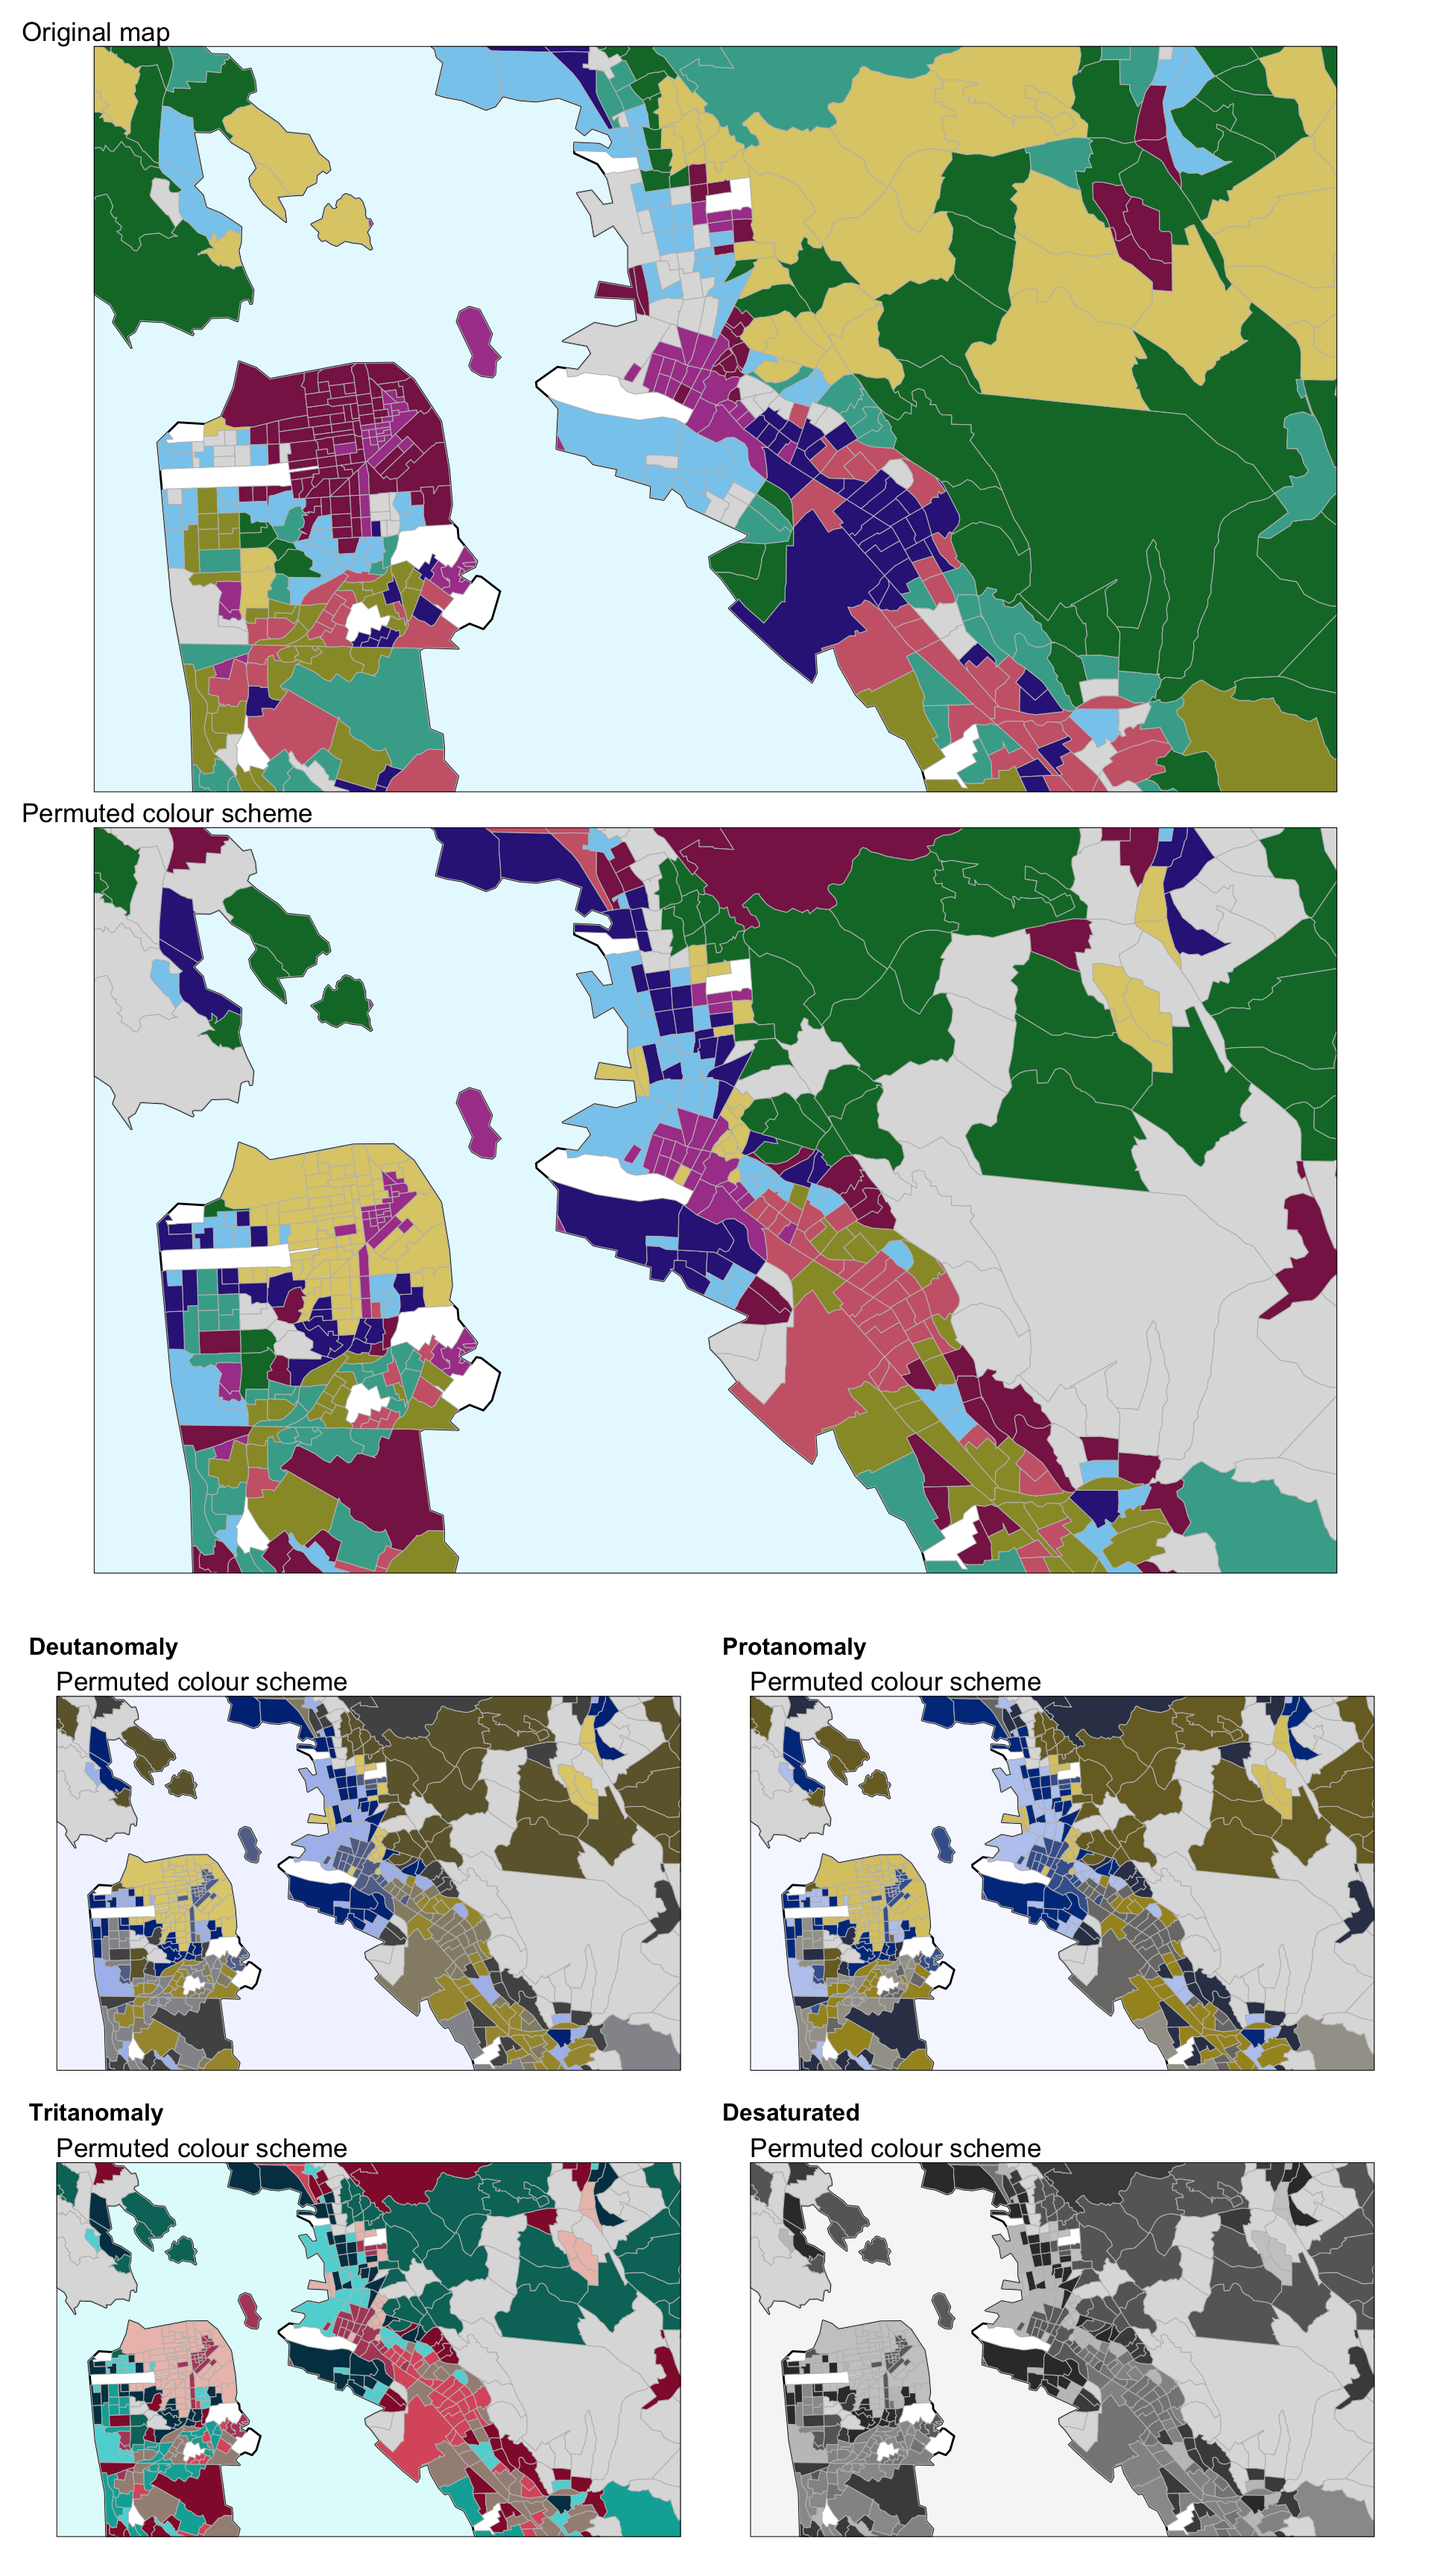
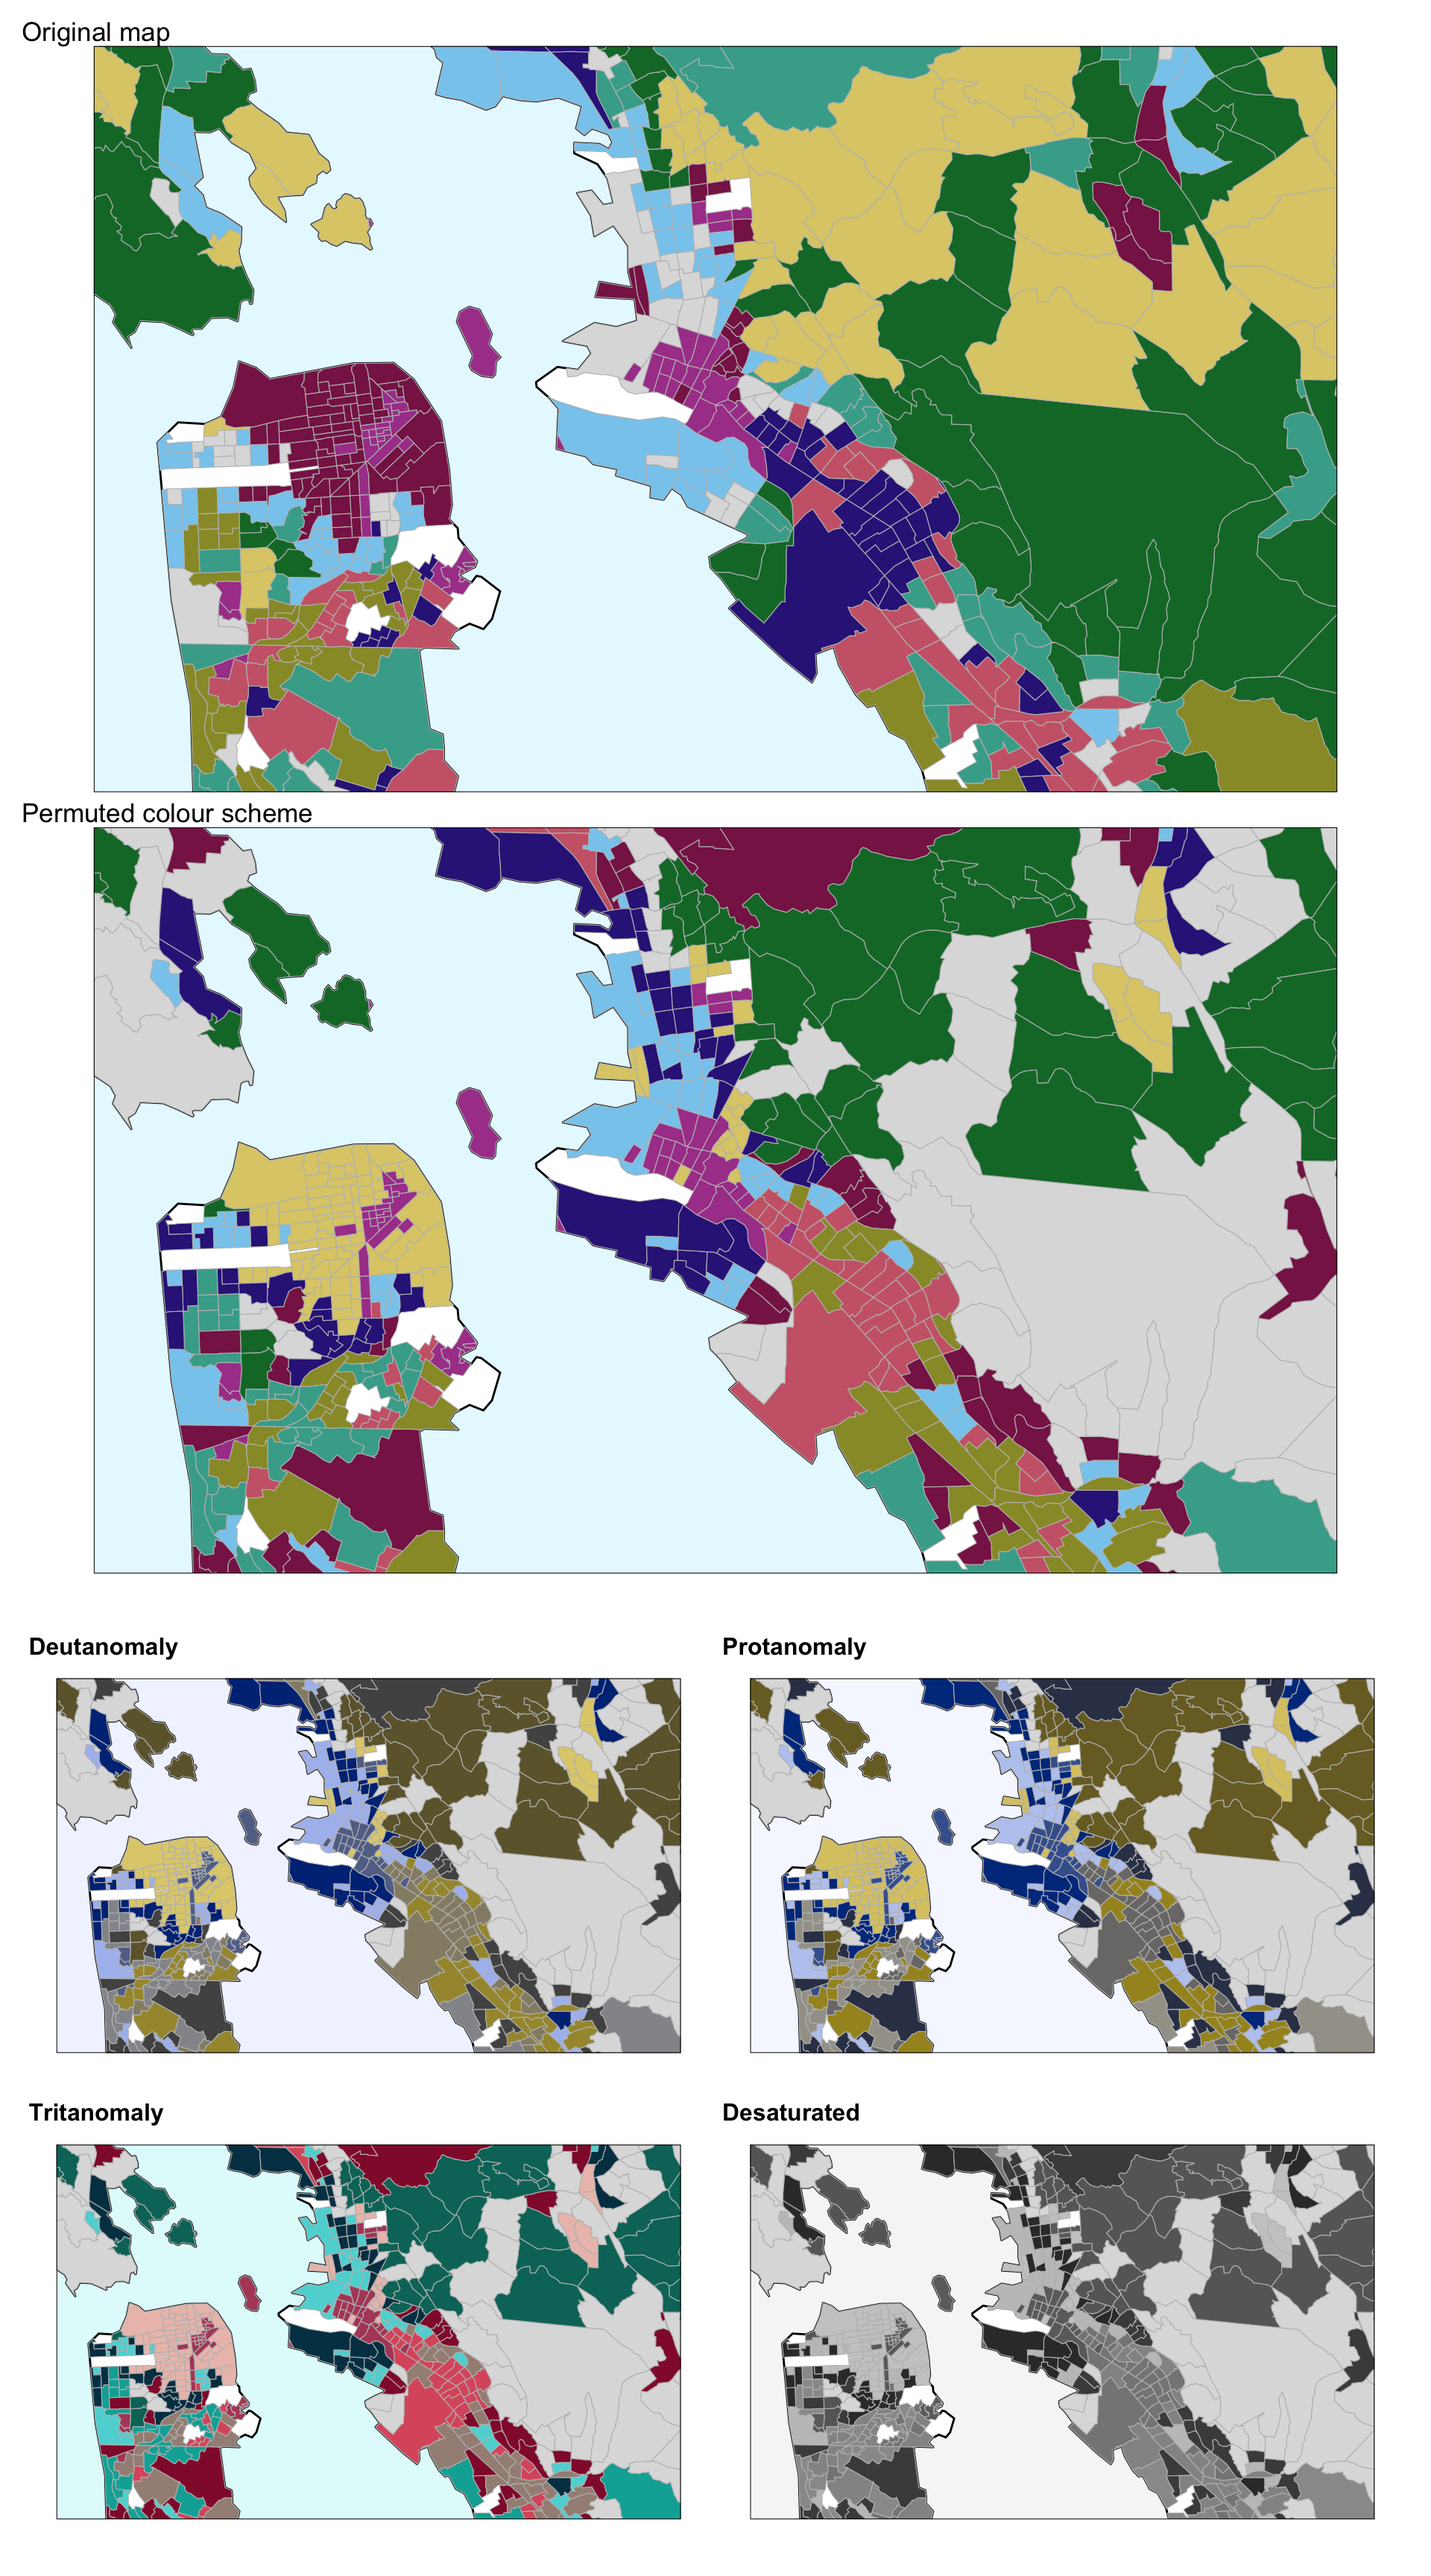
fixed titles in CVD sims of final map

Changed region(s): [[0.0312, 0.625, 0.5, 1.0], [0.5312, 0.625, 0.9688, 1.0]]

diff --git a/docs/posts/2026/02/13/index.html b/docs/posts/2026/02/13/index.html
@@ -951,13 +951,12 @@ Figure&nbsp;14: Fifteen demographic clusters mapped using the <em>matplotlib.vir
 <span id="cb27-2"><a href="#cb27-2" aria-hidden="true" tabindex="-1"></a>  <span class="fu">geom_sf</span>(<span class="at">data =</span> gdf, <span class="fu">aes</span>(<span class="at">fill =</span> k10), <span class="at">colour =</span> <span class="st">"grey"</span>) <span class="sc">+</span></span>
 <span id="cb27-3"><a href="#cb27-3" aria-hidden="true" tabindex="-1"></a>  <span class="fu">scale_fill_manual</span>(<span class="at">values =</span> pal[min_perm]) <span class="sc">+</span></span>
 <span id="cb27-4"><a href="#cb27-4" aria-hidden="true" tabindex="-1"></a>  <span class="fu">guides</span>(<span class="at">fill =</span> <span class="st">"none"</span>) <span class="sc">+</span></span>
-<span id="cb27-5"><a href="#cb27-5" aria-hidden="true" tabindex="-1"></a>  <span class="fu">ggtitle</span>(<span class="st">"Permuted colour scheme"</span>) <span class="sc">+</span></span>
-<span id="cb27-6"><a href="#cb27-6" aria-hidden="true" tabindex="-1"></a>  frame</span>
-<span id="cb27-7"><a href="#cb27-7" aria-hidden="true" tabindex="-1"></a></span>
-<span id="cb27-8"><a href="#cb27-8" aria-hidden="true" tabindex="-1"></a>(map4 <span class="sc">+</span> <span class="fu">ggtitle</span>(<span class="st">"Original map"</span>)) <span class="sc">/</span> </span>
-<span id="cb27-9"><a href="#cb27-9" aria-hidden="true" tabindex="-1"></a>  map6 <span class="sc">/</span> </span>
-<span id="cb27-10"><a href="#cb27-10" aria-hidden="true" tabindex="-1"></a>  <span class="fu">plot_spacer</span>() <span class="sc">/</span> </span>
-<span id="cb27-11"><a href="#cb27-11" aria-hidden="true" tabindex="-1"></a>  <span class="fu">cvd_grid</span>(map6) <span class="sc">+</span> <span class="fu">plot_layout</span>(<span class="at">heights =</span> <span class="fu">c</span>(<span class="dv">2</span>, <span class="dv">2</span>, <span class="fl">0.1</span>, <span class="fl">2.5</span>))</span></code></pre></div><button title="Copy to Clipboard" class="code-copy-button"><i class="bi"></i></button></div>
+<span id="cb27-5"><a href="#cb27-5" aria-hidden="true" tabindex="-1"></a>  frame</span>
+<span id="cb27-6"><a href="#cb27-6" aria-hidden="true" tabindex="-1"></a></span>
+<span id="cb27-7"><a href="#cb27-7" aria-hidden="true" tabindex="-1"></a>(map4 <span class="sc">+</span> <span class="fu">ggtitle</span>(<span class="st">"Original map"</span>)) <span class="sc">/</span> </span>
+<span id="cb27-8"><a href="#cb27-8" aria-hidden="true" tabindex="-1"></a>  (map6 <span class="sc">+</span> <span class="fu">ggtitle</span>(<span class="st">"Permuted colour scheme"</span>)) <span class="sc">/</span> </span>
+<span id="cb27-9"><a href="#cb27-9" aria-hidden="true" tabindex="-1"></a>  <span class="fu">plot_spacer</span>() <span class="sc">/</span> </span>
+<span id="cb27-10"><a href="#cb27-10" aria-hidden="true" tabindex="-1"></a>  <span class="fu">cvd_grid</span>(map6) <span class="sc">+</span> <span class="fu">plot_layout</span>(<span class="at">heights =</span> <span class="fu">c</span>(<span class="dv">2</span>, <span class="dv">2</span>, <span class="fl">0.1</span>, <span class="fl">2.5</span>))</span></code></pre></div><button title="Copy to Clipboard" class="code-copy-button"><i class="bi"></i></button></div>
 </details>
 <div class="cell-output-display">
 <div id="fig-original-and-permuted-maps" class="quarto-float quarto-figure quarto-figure-center anchored">

diff --git a/docs/blog.html b/docs/blog.html
@@ -269,7 +269,7 @@ window.Quarto = {
 
 <div class="quarto-listing quarto-listing-container-default" id="listing-listing">
 <div class="list quarto-listing-default">
-<div class="quarto-post image-right" data-index="0" data-categories="UiUyQ2NhcnRvZ3JhcGh5JTJDdHV0b3JpYWwlMkN2aXN1YWxpemF0aW9u" data-listing-date-sort="1770894000000" data-listing-file-modified-sort="1770980381881" data-listing-date-modified-sort="NaN" data-listing-reading-time-sort="20" data-listing-word-count-sort="3844">
+<div class="quarto-post image-right" data-index="0" data-categories="UiUyQ2NhcnRvZ3JhcGh5JTJDdHV0b3JpYWwlMkN2aXN1YWxpemF0aW9u" data-listing-date-sort="1770894000000" data-listing-file-modified-sort="1771015503697" data-listing-date-modified-sort="NaN" data-listing-reading-time-sort="20" data-listing-word-count-sort="3843">
 <div class="thumbnail"><a href="./posts/2026/02/13/index.html" class="no-external">
 
 <img loading="lazy" src="./posts/2026/02/13/fig-eight-candidate-cbd-schemes-1.png" class="thumbnail-image">
